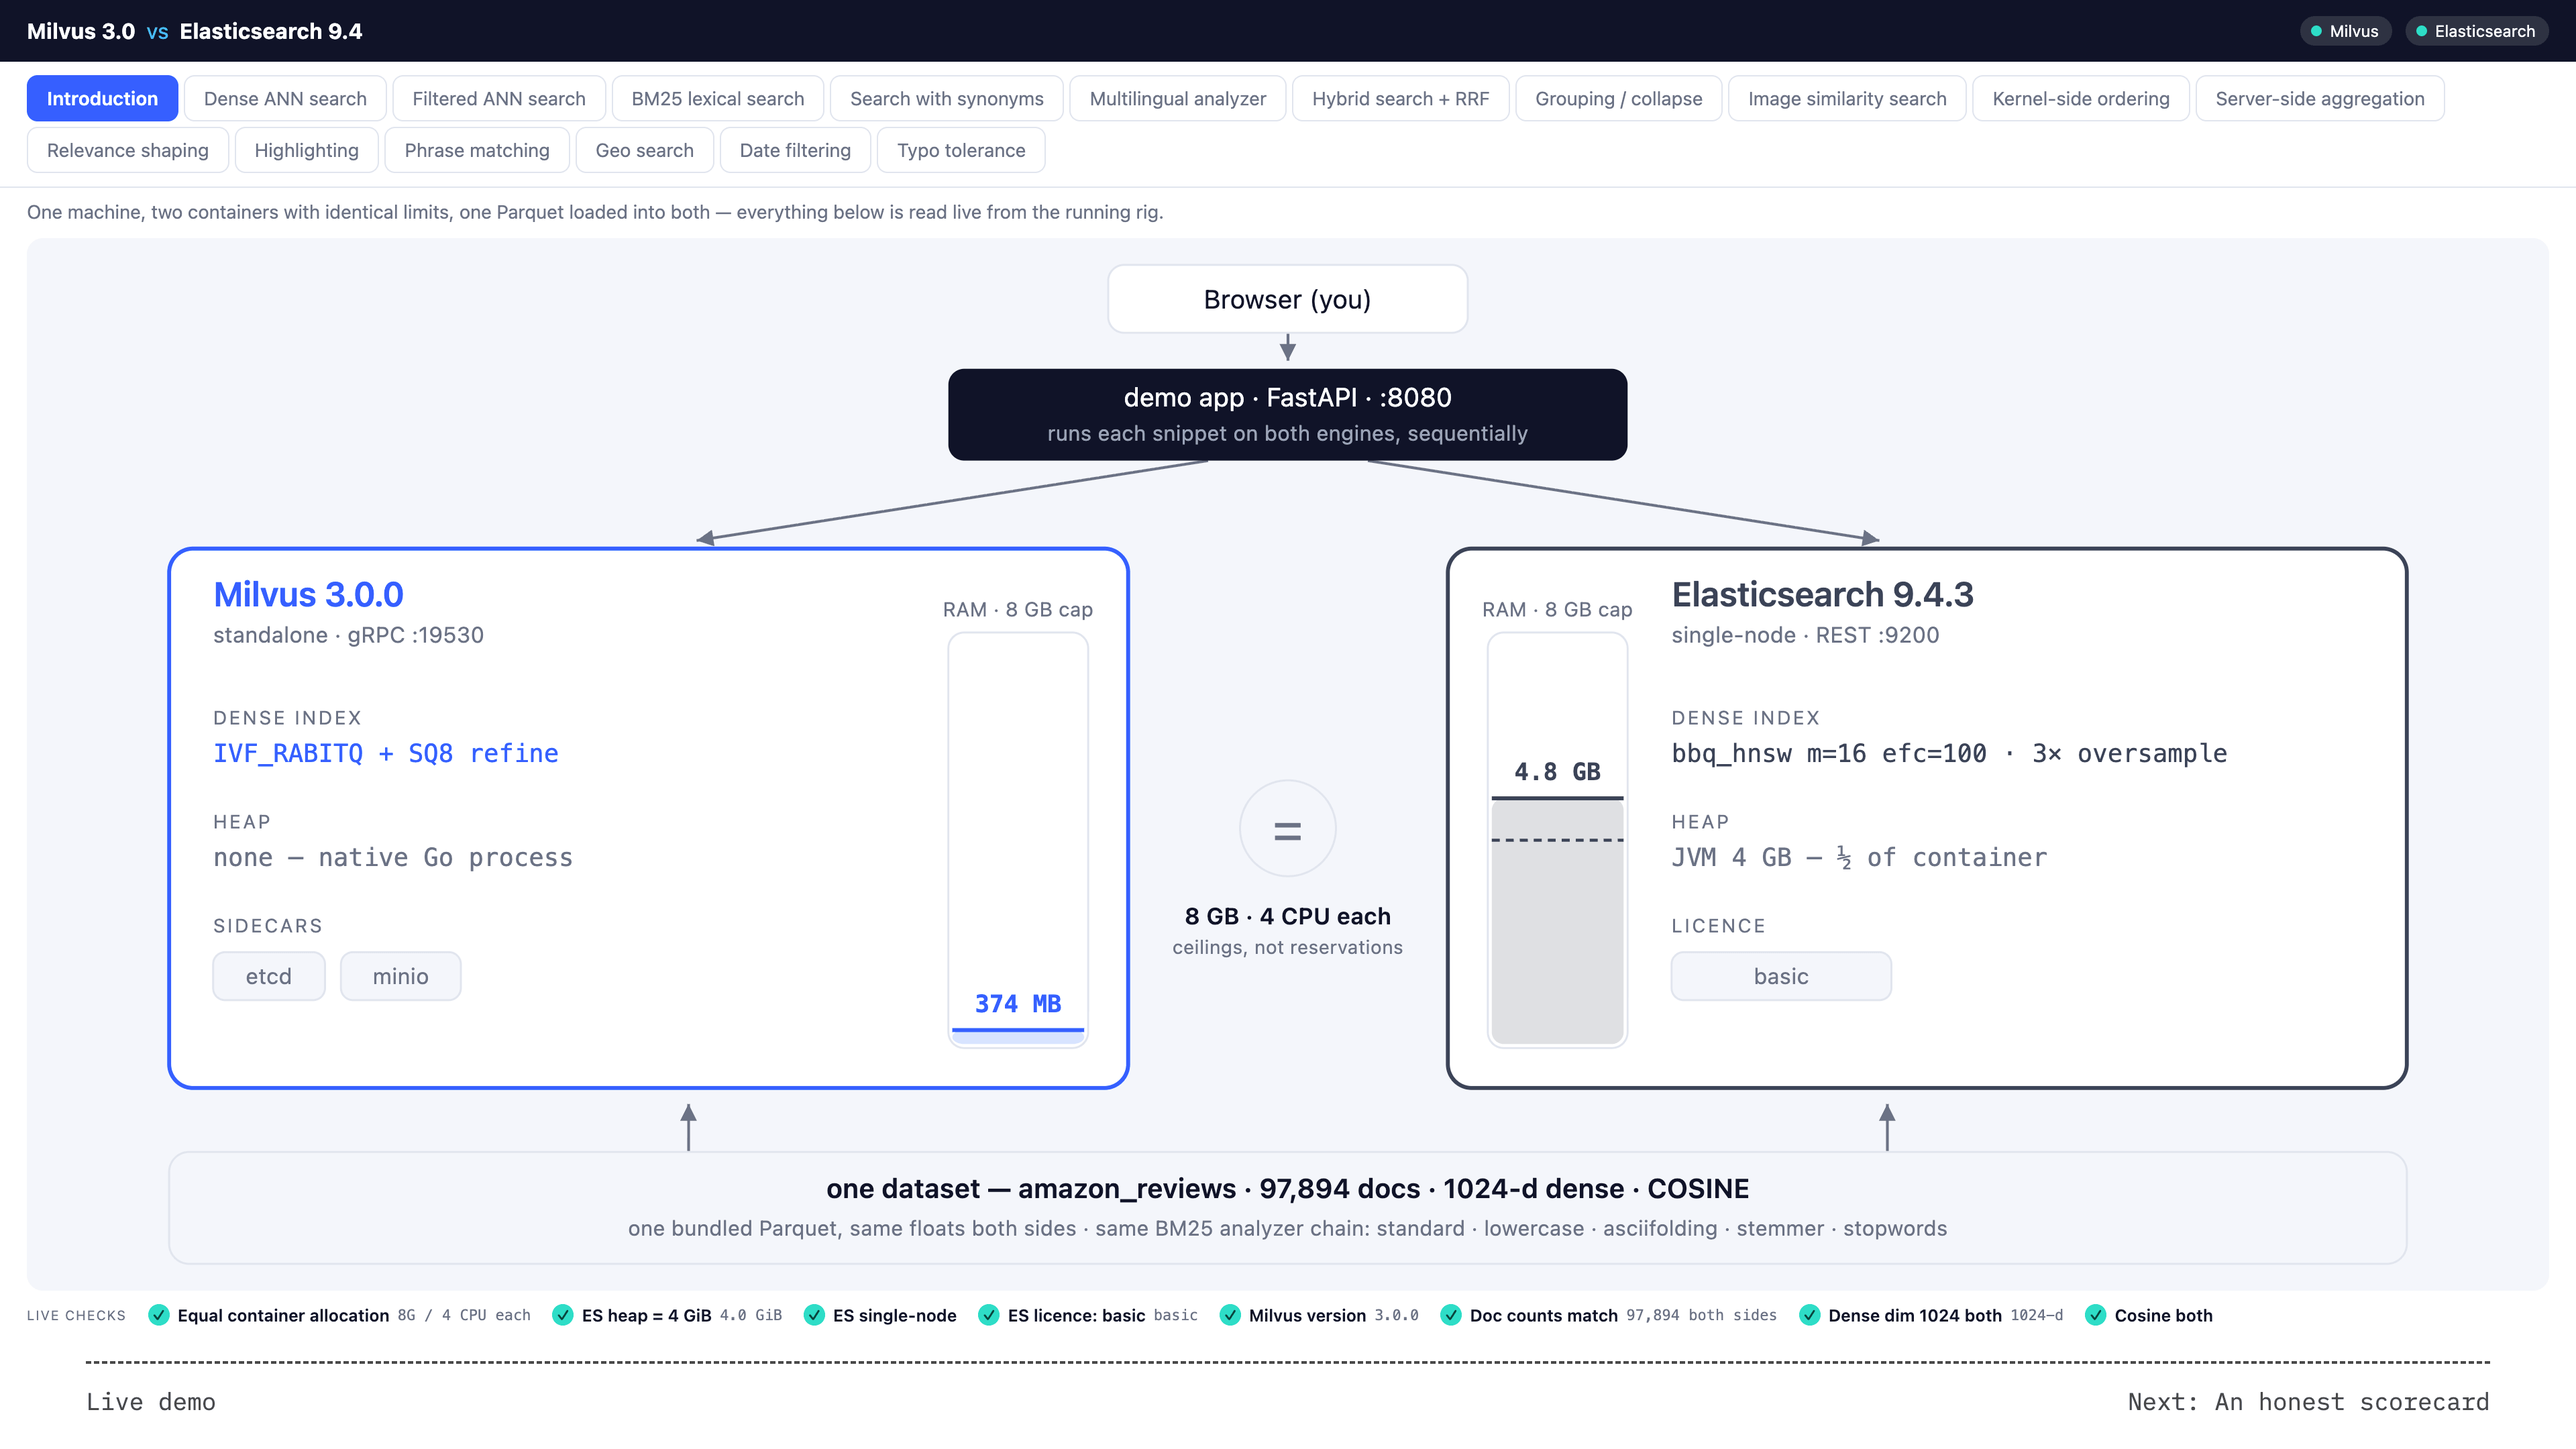
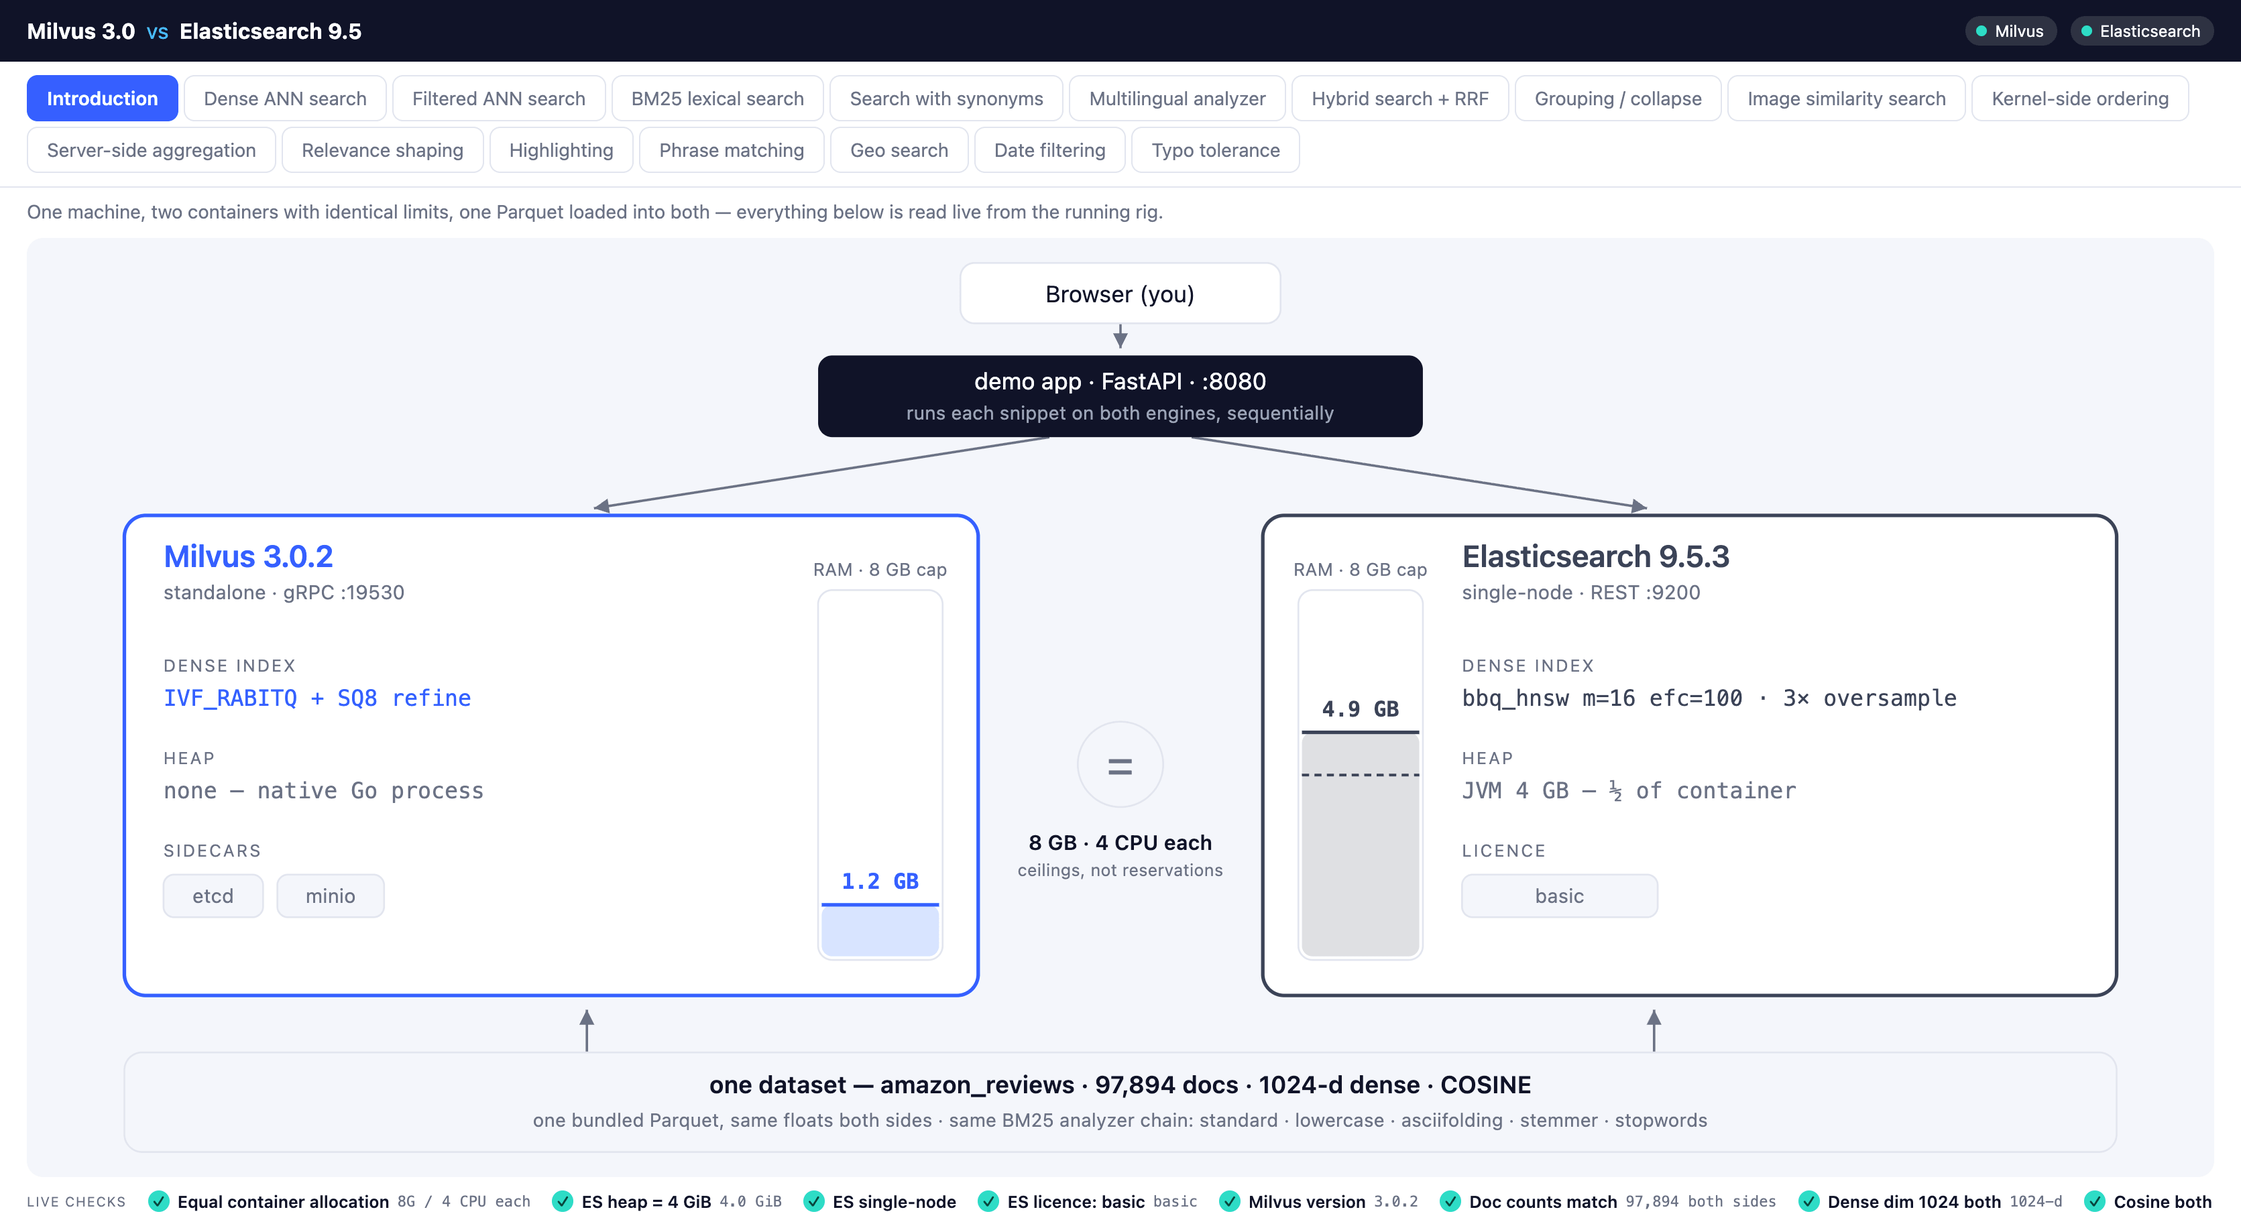
minor: update static image for latest version and remove agg caching

diff --git a/webapp/snippets.py b/webapp/snippets.py
@@ -357,7 +357,7 @@ FEATURES = [
     }),
     ("aggregate", {
         "title": "Server-side aggregation",
-        "subtitle": "count / avg / min / max pushed into the kernel",
+        "subtitle": "count / avg / min / max pushed into the kernel — ES request cache off, both sides compute",
         "metric": "rows",
         "milvus": snippet('''
             client.query(
@@ -374,8 +374,9 @@ FEATURES = [
             )
         '''),
         "es": snippet('''
+            # Shard request cache off, or repeat runs time a cache hit.
             client.search(
-              index="amazon_reviews", size=0,
+              index="amazon_reviews", size=0, request_cache=False,
               aggs={"by_group": {
                 "terms": {
                   "field": "main_category.keyword",

diff --git a/engines/es_engine.py b/engines/es_engine.py
@@ -97,7 +97,9 @@ class ESEngine(Engine):
         """terms agg + avg sub-aggs — the analogue of Milvus kernel aggregation."""
         import time
         t0 = time.perf_counter()
-        res = self.client.search(index=INDEX, size=0, aggs={
+        # request_cache off: size=0 aggs are cached per shard, so repeat runs
+        # would time a cache hit rather than the aggregation.
+        res = self.client.search(index=INDEX, size=0, request_cache=False, aggs={
             "by_group": {
                 "terms": {"field": f"{group_field}.keyword", "size": limit},
                 "aggs": {"avg_price": {"avg": {"field": "price"}},
